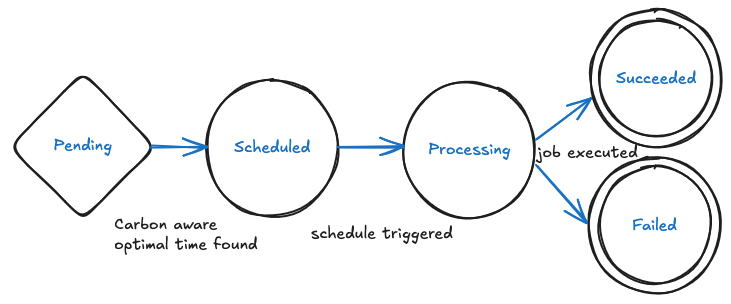
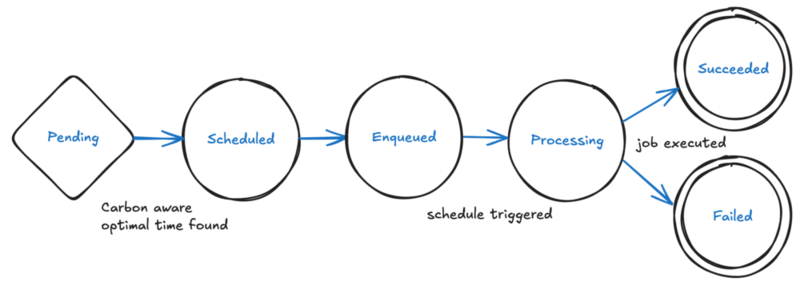
add enqueued to job state diagram for carbon guide

diff --git a/content/en/documentation/background-methods/carbon-aware-jobs.md b/content/en/documentation/background-methods/carbon-aware-jobs.md
@@ -2,7 +2,7 @@
 title: "Carbon Aware Jobs"
 subtitle: "Use Carbon Aware Job Processing to optimize the carbon footprint when scheduling (recurring) jobs."
 drawing1: https://excalidraw.com/#json=yVa0Rvpt4dWtEKVWbq_EJ,vWq0sr45v9nCOZZjDuGzfQ
-drawing2: https://excalidraw.com/#json=fUbk68riV80xkYlZTuUwb,6EA0BSlQ5zdXLXGC8Z6ODQ
+drawing2: https://excalidraw.com/#json=KQKZ3E-3krR7TIDXVu--H,yZQDrHalLHBjgnu-U0aNew
 date: 2025-06-13T09:15:00+02:00
 layout: "documentation"
 beta: true
